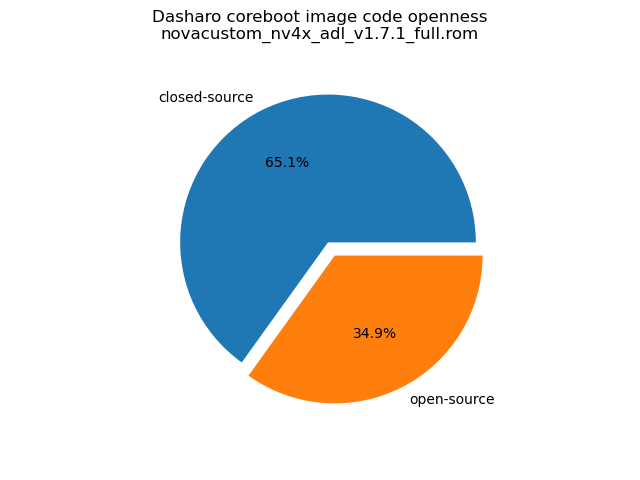
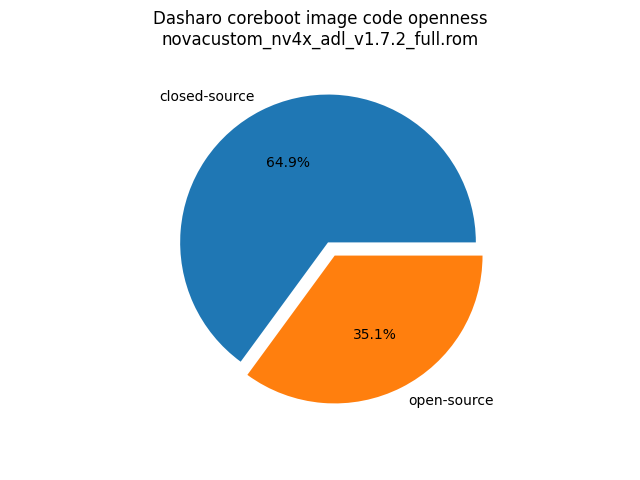
variants/nv4x_adl: add v1.7.2 relnotes

diff --git a/docs/variants/novacustom_nv4x_adl/releases.md b/docs/variants/novacustom_nv4x_adl/releases.md
@@ -13,6 +13,81 @@ For details about our release process please read
 
 </center>
 
+## v1.7.2 - 2023-12-22
+
+Test results for this release can be found
+[here](https://docs.google.com/spreadsheets/d/1LOXY9HCu-fMitkYwX08iLsQdSNenzyU0LnMdVbZB5Do/edit#gid=799846462).
+
+### Added
+
+- [Added Microsoft 2023 keys for UEFI Secure Boot and DBX from 2023.05.9](https://github.com/Dasharo/edk2/commit/b7274c98697e972e772236caf830c0780ec498bd)
+
+### Changed
+
+- [Changed throttling temperature to 80 degrees](https://github.com/Dasharo/dasharo-issues/issues/596)
+- [Enabled HTTPS for Dasharo Tools Suite network boot option](https://github.com/Dasharo/dasharo-issues/issues/450)
+
+### Fixed
+
+- [Low performance when booting on battery power only](https://github.com/Dasharo/dasharo-issues/issues/555)
+- [Regression charging via dell usb-c dock](https://github.com/Dasharo/dasharo-issues/issues/587)
+- [Video on USB-C docks sometimes fails to initialize](https://github.com/Dasharo/dasharo-issues/issues/560)
+- [USB-C chargers may be overloaded in certain scenarios](https://github.com/Dasharo/dasharo-issues/issues/619)
+- [Hybrid Power Boost mode of battery charger is not functional](https://github.com/Dasharo/dasharo-issues/issues/620)
+- [Laptop may shut down when disconnecting power supply](https://github.com/Dasharo/dasharo-issues/issues/621)
+- [Input current limits are set too high](https://github.com/Dasharo/dasharo-issues/issues/622)
+- [Keyboard backlight does not turn off immediately when going to sleep](https://github.com/Dasharo/dasharo-issues/issues/623)
+- [Power LED blinks erratically in HPB mode](https://github.com/Dasharo/dasharo-issues/issues/624)
+- [EC applying power limits may sometimes fail](https://github.com/Dasharo/dasharo-issues/issues/625)
+- [Wrong power limits are applied on AC attach / detach](https://github.com/Dasharo/dasharo-issues/issues/626)
+- [USB-PD controller may hang in glitched state on shutdown](https://github.com/Dasharo/dasharo-issues/issues/627)
+- [Yellow bangs in device manager](https://docs.dasharo.com/unified/clevo/post-install/#unrecognized-usb-controller-device-in-device-manager)
+- [Random freezes in Windows 11](https://github.com/Dasharo/dasharo-issues/issues/628)
+- [Noise caused by coil whine](https://github.com/Dasharo/dasharo-issues/issues/628)
+- [Low level interfering crackling/popping of the speakers while playing no sound](https://github.com/Dasharo/dasharo-issues/issues/224)
+- [ACPI error during boot (system76_acpi::kbd_backlight)](https://github.com/Dasharo/dasharo-issues/issues/559)
+- [Thunderbolt may not work after wakeup from sleep](https://github.com/Dasharo/dasharo-issues/issues/629)
+- [Unnecessary security warning after firmware update](https://github.com/Dasharo/dasharo-issues/issues/556)
+- [Early boot DMA protection setting in UEFI does not work correctly](https://github.com/Dasharo/dasharo-issues/issues/630)
+
+### Known issues
+
+- [Poor Package C-state residency at idle after first s2idle cycle](https://github.com/Dasharo/dasharo-issues/issues/631)
+- [Some commands in dasharo_ectool fail](https://github.com/Dasharo/dasharo-issues/issues/648)
+- [Incomplete serial console output](https://github.com/Dasharo/dasharo-issues/issues/614)
+- [Some devices on dock are not detected after warmboot or reboot](https://github.com/Dasharo/dasharo-issues/issues/632)
+- [Function Lock setting is not saved after cold boot](https://github.com/Dasharo/dasharo-issues/issues/458)
+- [No ability to change active PCR banks with TPM PPI in FW](https://github.com/Dasharo/dasharo-issues/issues/521)
+- [Turning wifi/bt off inside BIOS leads to an ACPI error message while system start on Gentoo Linux](https://github.com/Dasharo/dasharo-issues/issues/638)
+- [The laptop does not automatically wake up from hibernation using rtcwake](https://github.com/Dasharo/dasharo-issues/issues/485)
+
+### Binaries
+
+[novacustom_nv4x_adl_ec_v1.7.2.rom][novacustom_nv4x_adl_ec_v1.7.2.rom_file]{.md-button}
+[sha256][novacustom_nv4x_adl_ec_v1.7.2.rom_hash]{.md-button}
+[sha256.sig][novacustom_nv4x_adl_ec_v1.7.2.rom_sig]{.md-button}
+
+[novacustom_nv4x_adl_v1.7.2.rom][novacustom_nv4x_adl_v1.7.2.rom_file]{.md-button}
+[sha256][novacustom_nv4x_adl_v1.7.2.rom_hash]{.md-button}
+[sha256.sig][novacustom_nv4x_adl_v1.7.2.rom_sig]{.md-button}
+
+To verify binary integrity with hash and signature please follow the
+instructions in [Dasharo release signature verification](/guides/signature-verification)
+using [this key](https://raw.githubusercontent.com/3mdeb/3mdeb-secpack/master/customer-keys/novacustom/novacustom-open-source-firmware-release-1.x-key.asc)
+
+### SBOM (Software Bill of Materials)
+
+- [Dasharo coreboot fork based on 4.21 revision cb6ef1b9](https://github.com/Dasharo/coreboot/tree/cb6ef1b9)
+- [Dasharo EDKII fork based on edk2-stable202002 revision b7274c98](https://github.com/Dasharo/edk2/tree/b7274c98)
+
+[newsletter]: https://newsletter.3mdeb.com/subscription/RJrTXDhWR
+[novacustom_nv4x_adl_ec_v1.7.2.rom_file]: https://dl.3mdeb.com/open-source-firmware/Dasharo/novacustom_nv4x_adl/v1.7.2/novacustom_nv4x_adl_ec_v1.7.2.rom
+[novacustom_nv4x_adl_ec_v1.7.2.rom_hash]: https://dl.3mdeb.com/open-source-firmware/Dasharo/novacustom_nv4x_adl/v1.7.2/novacustom_nv4x_adl_ec_v1.7.2.rom.sha256
+[novacustom_nv4x_adl_ec_v1.7.2.rom_sig]: https://dl.3mdeb.com/open-source-firmware/Dasharo/novacustom_nv4x_adl/v1.7.2/novacustom_nv4x_adl_ec_v1.7.2.rom.sha256.sig
+[novacustom_nv4x_adl_v1.7.2.rom_file]: https://dl.3mdeb.com/open-source-firmware/Dasharo/novacustom_nv4x_adl/v1.7.2/novacustom_nv4x_adl_v1.7.2.rom
+[novacustom_nv4x_adl_v1.7.2.rom_hash]: https://dl.3mdeb.com/open-source-firmware/Dasharo/novacustom_nv4x_adl/v1.7.2/novacustom_nv4x_adl_v1.7.2.rom.sha256
+[novacustom_nv4x_adl_v1.7.2.rom_sig]: https://dl.3mdeb.com/open-source-firmware/Dasharo/novacustom_nv4x_adl/v1.7.2/novacustom_nv4x_adl_v1.7.2.rom.sha256.sig
+
 ## v1.7.1 - 2023-11-06
 
 Test results for this release can be found

diff --git a/docs/variants/novacustom_nv4x_adl/openness-score.md b/docs/variants/novacustom_nv4x_adl/openness-score.md
@@ -1,17 +1,17 @@
 # Dasharo Openness Score
 
-Openness Score for novacustom_nv4x_adl_v1.7.1_full.rom
+Openness Score for novacustom_nv4x_adl_v1.7.2_full.rom
 
-Open-source code percentage: **34.9%**
-Closed-source code percentage: **65.1%**
+Open-source code percentage: **35.1%**
+Closed-source code percentage: **64.9%**
 
 * Image size: 33554432 (0x2000000)
 * Number of regions: 27
 * Number of CBFSes: 3
-* Total open-source code size: 4558876 (0x45901c)
+* Total open-source code size: 4587012 (0x45fe04)
 * Total closed-source code size: 8497434 (0x81a91a)
-* Total data size: 686483 (0xa7993)
-* Total empty size: 19811639 (0x12e4d37)
+* Total data size: 686541 (0xa79cd)
+* Total empty size: 19783445 (0x12ddf15)
 
 ![](openness_chart.png)
 
@@ -56,68 +56,68 @@ Closed-source code percentage: **65.1%**
  > which are not visible in the table below)
 
 | CBFS filename | CBFS filetype | Size | Compression | Category |
-| ------------ | ------------- | ---- | ----------- | -------- |
+| ------------- | ------------- | ---- | ----------- | -------- |
 | (empty) | null | 1048548 | none | empty |
 
 ## CBFS FW_MAIN_A
 
 * CBFS size: 10903488
 * Number of files: 13
-* Open-source files size: 2229678 (0x2205ae)
+* Open-source files size: 2243746 (0x223ca2)
 * Closed-source files size: 1629325 (0x18dc8d)
-* Data size: 8698 (0x21fa)
-* Empty size: 7035787 (0x6b5b8b)
+* Data size: 8744 (0x2228)
+* Empty size: 7021673 (0x6b2469)
 
 > Numbers given above are already normalized (i.e. they already include size
 > of metadata and possible closed-source LAN drivers included in the payload
  > which are not visible in the table below)
 
 | CBFS filename | CBFS filetype | Size | Compression | Category |
-| ------------ | ------------- | ---- | ----------- | -------- |
-| fallback/romstage | stage | 95160 | none | open-source |
-| fallback/ramstage | stage | 152839 | LZMA | open-source |
-| fallback/dsdt.aml | raw | 22894 | none | open-source |
+| ------------- | ------------- | ---- | ----------- | -------- |
+| fallback/romstage | stage | 95456 | none | open-source |
+| fallback/ramstage | stage | 152955 | LZMA | open-source |
+| fallback/dsdt.aml | raw | 22564 | none | open-source |
 | fallback/postcar | stage | 42408 | none | open-source |
-| fallback/payload | simple elf | 1916377 | none | open-source |
+| fallback/payload | simple elf | 1930363 | none | open-source |
 | cpu_microcode_blob.bin | microcode | 546816 | none | closed-source |
 | fspm.bin | fsp | 786432 | none | closed-source |
 | fsps.bin | fsp | 296077 | LZ4 | closed-source |
-| config | raw | 5475 | LZMA | data |
+| config | raw | 5485 | LZMA | data |
 | revision | raw | 856 | none | data |
 | build_info | raw | 98 | none | data |
 | vbt.bin | raw | 1290 | LZMA | data |
-| (empty) | null | 1188 | none | empty |
+| (empty) | null | 1060 | none | empty |
 
 ## CBFS COREBOOT
 
 * CBFS size: 4161536
 * Number of files: 18
-* Open-source files size: 2329198 (0x238a6e)
+* Open-source files size: 2343266 (0x23c162)
 * Closed-source files size: 1629325 (0x18dc8d)
-* Data size: 10045 (0x273d)
-* Empty size: 192968 (0x2f1c8)
+* Data size: 10057 (0x2749)
+* Empty size: 178888 (0x2bac8)
 
 > Numbers given above are already normalized (i.e. they already include size
 > of metadata and possible closed-source LAN drivers included in the payload
  > which are not visible in the table below)
 
 | CBFS filename | CBFS filetype | Size | Compression | Category |
-| ------------ | ------------- | ---- | ----------- | -------- |
-| fallback/romstage | stage | 95160 | none | open-source |
-| fallback/ramstage | stage | 152839 | LZMA | open-source |
-| fallback/dsdt.aml | raw | 22894 | none | open-source |
+| ------------- | ------------- | ---- | ----------- | -------- |
+| fallback/romstage | stage | 95456 | none | open-source |
+| fallback/ramstage | stage | 152955 | LZMA | open-source |
+| fallback/dsdt.aml | raw | 22564 | none | open-source |
 | fallback/postcar | stage | 42408 | none | open-source |
-| fallback/payload | simple elf | 1916377 | none | open-source |
+| fallback/payload | simple elf | 1930363 | none | open-source |
 | bootblock | bootblock | 99520 | none | open-source |
 | cpu_microcode_blob.bin | microcode | 546816 | none | closed-source |
 | fspm.bin | fsp | 786432 | none | closed-source |
 | fsps.bin | fsp | 296077 | LZ4 | closed-source |
 | cbfs_master_header | cbfs header | 28 | none | data |
 | intel_fit | intel_fit | 80 | none | data |
-| config | raw | 5475 | LZMA | data |
+| config | raw | 5485 | LZMA | data |
 | revision | raw | 856 | none | data |
 | build_info | raw | 98 | none | data |
 | vbt.bin | raw | 1290 | LZMA | data |
 | cmos_layout.bin | cmos_layout | 800 | none | data |
-| (empty) | null | 36 | none | empty |
-| (empty) | null | 192932 | none | empty |
+| (empty) | null | 804 | none | empty |
+| (empty) | null | 178084 | none | empty |
